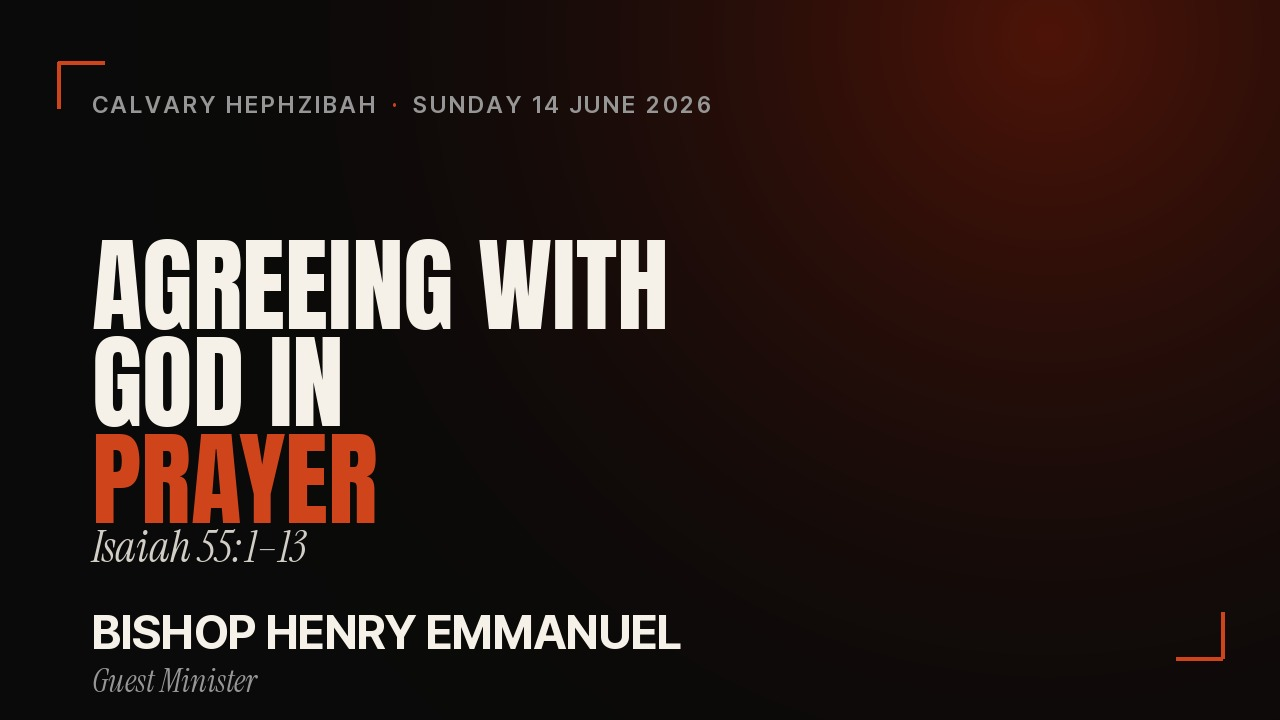
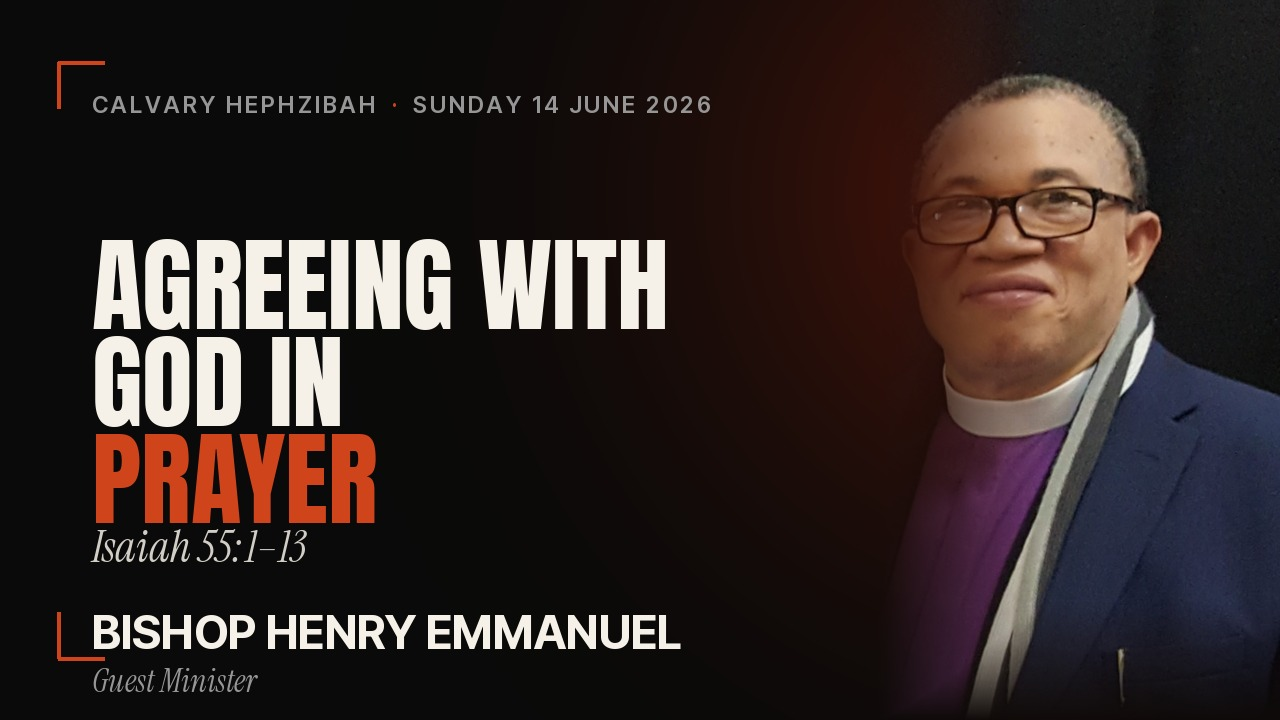
14 Jun 2026: add Bishop Henry Emmanuel portrait to sermon thumbnail / OG image (+ cache-bust)

Changed region(s): [[0.6875, 0.0, 1.0, 0.9778], [0.0312, 0.8556, 0.0938, 0.9167]]

diff --git a/media-briefing-14-jun-2026.html b/media-briefing-14-jun-2026.html
@@ -6,11 +6,11 @@
     <title>Calvary Service Run Sheet – 14th June 2026</title>
     <meta property="og:title" content="Calvary Service Run Sheet – 14th June 2026">
     <meta property="og:description" content="Sunday 14th June 2026 | Agreeing With GOD In Prayer | Bishop Henry Emmanuel | Calvary Hephzibah">
-    <meta property="og:image" content="https://calvaryhfgc.github.io/calvaryhephzibah/sermon-thumbnail-14-jun-2026.jpg">
+    <meta property="og:image" content="https://calvaryhfgc.github.io/calvaryhephzibah/sermon-thumbnail-14-jun-2026.jpg?v=2">
     <meta property="og:image:width" content="1280">
     <meta property="og:image:height" content="720">
     <meta name="twitter:card" content="summary_large_image">
-    <meta name="twitter:image" content="https://calvaryhfgc.github.io/calvaryhephzibah/sermon-thumbnail-14-jun-2026.jpg">
+    <meta name="twitter:image" content="https://calvaryhfgc.github.io/calvaryhephzibah/sermon-thumbnail-14-jun-2026.jpg?v=2">
     <link rel="preconnect" href="https://fonts.googleapis.com">
     <link rel="preconnect" href="https://fonts.gstatic.com" crossorigin>
     <link href="https://fonts.googleapis.com/css2?family=Cormorant+Garamond:wght@600;700&family=DM+Sans:wght@400;500;600;700&display=swap" rel="stylesheet">
